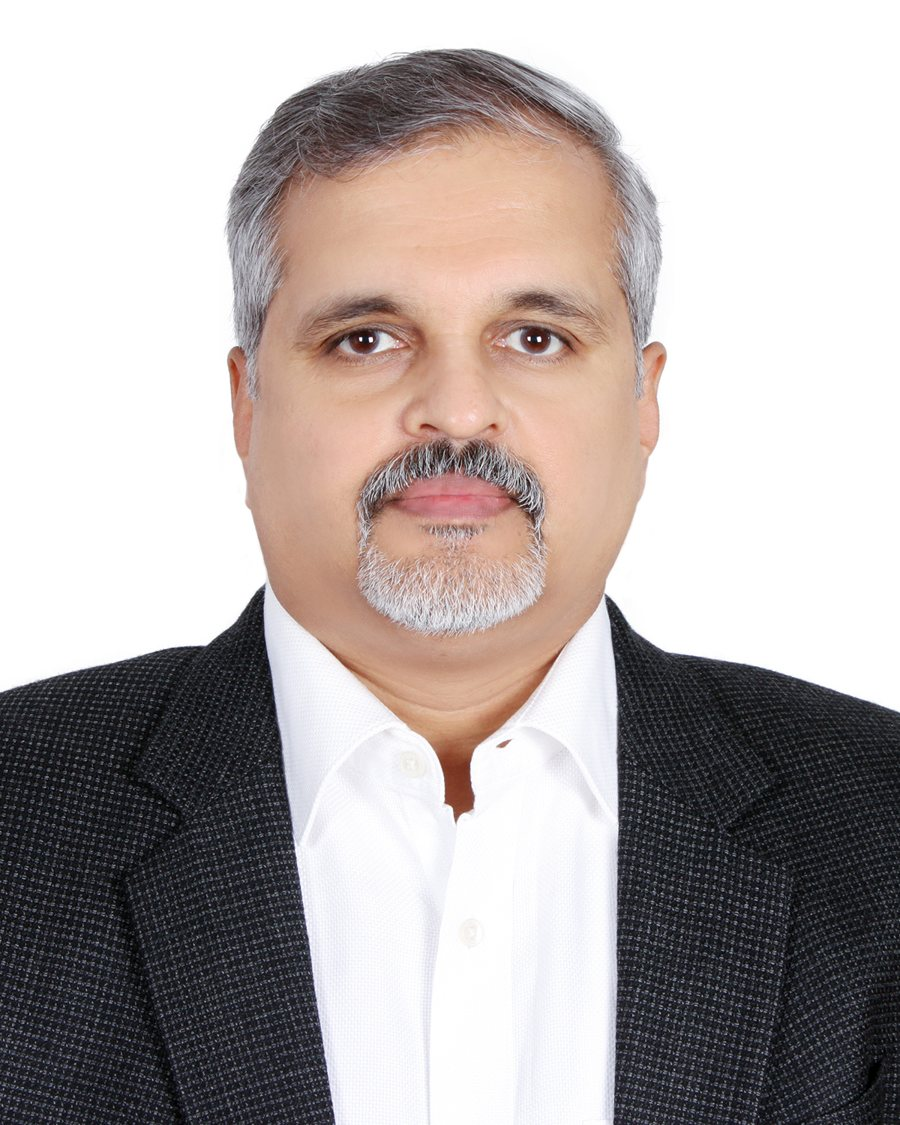
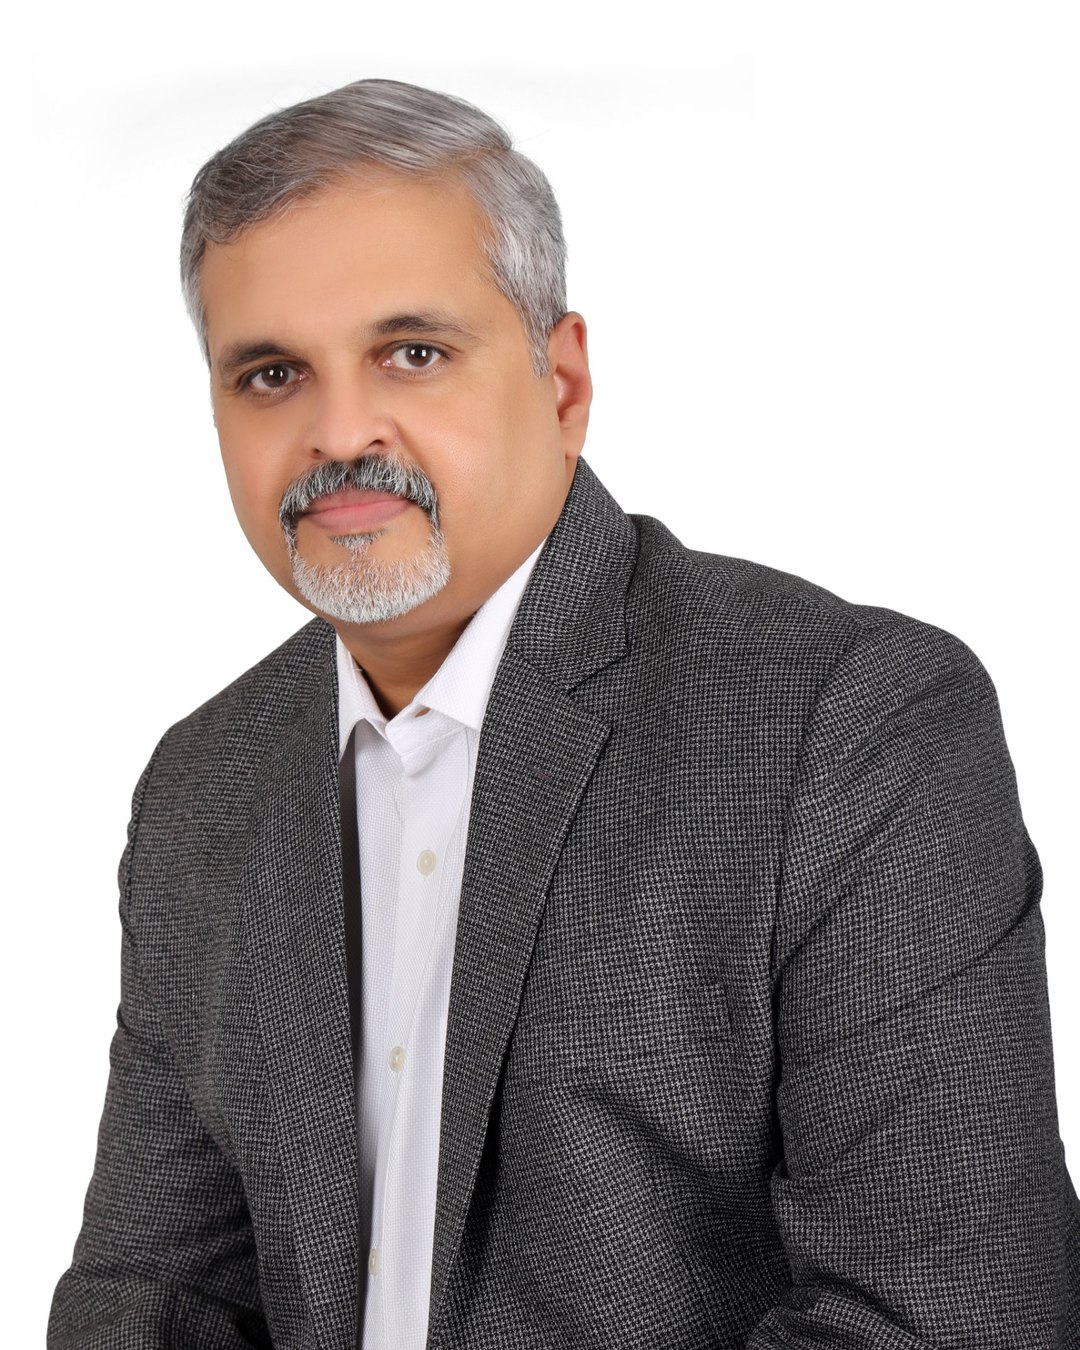
Add files via upload

diff --git a/faqs.html b/faqs.html
@@ -22,7 +22,7 @@
 <link rel="preconnect" href="https://fonts.googleapis.com">
 <link rel="preconnect" href="https://fonts.gstatic.com" crossorigin>
 <link rel="stylesheet" href="https://fonts.googleapis.com/css2?family=Cormorant+Garamond:ital,wght@0,500;0,600;0,700;1,500;1,600&family=IBM+Plex+Mono:wght@400;500&family=IBM+Plex+Sans:wght@400;500;600&display=swap">
-<link rel="stylesheet" href="assets/css/style.css?v=20261113b">
+<link rel="stylesheet" href="assets/css/style.css?v=20261120">
 <script type="application/ld+json">
 {"@context": "https://schema.org", "@type": "FAQPage", "mainEntity": [{"@type": "Question", "name": "What is a mutual fund?", "acceptedAnswer": {"@type": "Answer", "text": "A mutual fund pools money from many investors and invests it in shares, bonds or other securities according to a stated objective. A professional fund manager runs it, and each investor owns units in proportion to the amount invested. Mutual funds in India are regulated by SEBI."}}, {"@type": "Question", "name": "How much do I need to start a SIP?", "acceptedAnswer": {"@type": "Answer", "text": "Many schemes accept monthly SIPs from ₹500 or ₹1,000, and some allow smaller amounts. The minimum differs by scheme and is stated in its scheme documents. You can increase or stop a SIP later, and most fund houses also let you pause it for a while."}}, {"@type": "Question", "name": "SIP or lump sum: which is better?", "acceptedAnswer": {"@type": "Answer", "text": "Neither is better in every case. A SIP invests a fixed amount at regular intervals, which builds a habit and spreads your purchases across market ups and downs. A lump sum invests money you already have in one go. Many investors use both. The right mix depends on your goal, your time horizon and how comfortable you are with market swings, which we discuss after your risk profile."}}, {"@type": "Question", "name": "What documents do I need?", "acceptedAnswer": {"@type": "Answer", "text": "Resident Indians: PAN, Aadhaar or another address proof, a recent photograph, and bank details (a cancelled cheque or bank statement). NRIs: in addition, your passport, overseas address proof, NRE or NRO bank account details and a FATCA/CRS declaration. KYC is completed once through a KYC Registration Agency and then works across all mutual funds."}}, {"@type": "Question", "name": "Why do you start with a risk profile?", "acceptedAnswer": {"@type": "Answer", "text": "Before suggesting any scheme, we need to understand how much risk you are able and willing to take, and how much time each goal has. A short questionnaire and a conversation help us recommend only what is suitable for you, not what is popular at the moment."}}, {"@type": "Question", "name": "Can NRIs invest in Indian mutual funds?", "acceptedAnswer": {"@type": "Answer", "text": "Yes. NRIs can invest through NRE or NRO bank accounts after completing KYC and FATCA declarations. Some fund houses do not accept investments from residents of certain countries, such as the USA and Canada, or accept them only with extra paperwork, so scheme choice depends on where you live. You are also responsible for checking the rules of your country of residence."}}, {"@type": "Question", "name": "What happens to my investments when I return to India?", "acceptedAnswer": {"@type": "Answer", "text": "Your investments continue. You update your residential status with each fund house and with your bank, and we help you with the paperwork. Your Chartered Accountant can advise on the tax side of the move."}}, {"@type": "Question", "name": "Do you charge me a fee?", "acceptedAnswer": {"@type": "Answer", "text": "We don't charge you a separate fee. We are paid a commission by the Asset Management Company on investments made through us in the Regular Plan of a scheme, and it is included in the scheme's expense ratio. We tell you the commission on each scheme we suggest before you invest. See our Disclosures ."}}, {"@type": "Question", "name": "What is the difference between a Regular Plan and a Direct Plan?", "acceptedAnswer": {"@type": "Answer", "text": "Both are the same scheme with the same portfolio. A Regular Plan is bought through a distributor and its expense ratio includes the distributor's commission, so it is higher. A Direct Plan is bought without a distributor and has a lower expense ratio, but no distributor service. As a Mutual Fund Distributor, we deal only in Regular Plans."}}, {"@type": "Question", "name": "Are returns guaranteed?", "acceptedAnswer": {"@type": "Answer", "text": "No. Mutual Fund investments are subject to market risks, read all scheme related documents carefully. The value of your investment can go down as well as up, and past performance may or may not be sustained in future. Debt funds also carry interest-rate and credit risk."}}, {"@type": "Question", "name": "Can I withdraw my money at any time?", "acceptedAnswer": {"@type": "Answer", "text": "For open-ended schemes, yes, on any business day. Some schemes charge an exit load if you redeem within a set period, and ELSS schemes have a 3-year lock-in. Redemption money is usually credited to your bank account within a few working days, depending on the type of scheme."}}, {"@type": "Question", "name": "How are mutual fund gains taxed?", "acceptedAnswer": {"@type": "Answer", "text": "It depends on the type of scheme (equity-oriented or not), how long you hold it, and whether you are a resident or an NRI. For NRIs, tax is also deducted at source when you redeem. Tax rules change from time to time, so we coordinate with your Chartered Accountant rather than give tax advice ourselves."}}, {"@type": "Question", "name": "What is ELSS?", "acceptedAnswer": {"@type": "Answer", "text": "An Equity Linked Savings Scheme (ELSS) is an equity mutual fund with a 3-year lock-in. Under the old tax regime, investments in ELSS may qualify for a deduction of up to ₹1.5 lakh a year, together with other eligible investments. The new tax regime does not offer this deduction. Please confirm the current rules with your Chartered Accountant."}}, {"@type": "Question", "name": "How will I know how my investments are doing?", "acceptedAnswer": {"@type": "Answer", "text": "You receive a Consolidated Account Statement (CAS) covering all your mutual fund holdings, every month in which you transact and at least every six months otherwise. Each fund house also sends statements, and you can track your investments online through the Wealthy app. We review your portfolio with you periodically."}}, {"@type": "Question", "name": "Is my money safe with Dreemz Wealth?", "acceptedAnswer": {"@type": "Answer", "text": "Your money never comes to us. Payments go from your bank account to the mutual fund or the transaction platform's payment system, and your units are held in your own name. Each mutual fund's assets are held by an independent custodian and overseen by trustees under SEBI rules. This protects you against misuse of your money, but not against market falls."}}, {"@type": "Question", "name": "How often will we review my portfolio?", "acceptedAnswer": {"@type": "Answer", "text": "At least once a year, and whenever something important changes in your life, such as a new goal, a move or a change in income. Reviews check that each goal is still on track and whether any rebalancing is suitable."}}]}
 </script>
@@ -231,7 +231,7 @@
   </div>
 </footer>
 <a class="wa-float" href="https://wa.me/919446206915" target="_blank" rel="noopener" aria-label="Chat with Wilfred on WhatsApp"><svg viewBox="0 0 24 24" width="22" height="22" fill="none" stroke="currentColor" stroke-width="1.8" stroke-linecap="round" stroke-linejoin="round" aria-hidden="true"><path d="M21 12a8.5 8.5 0 0 1-12.6 7.4L3 21l1.6-5.2A8.5 8.5 0 1 1 21 12z"/><path d="M8.5 10.5h7M8.5 13.5h4.5"/></svg><span>WhatsApp</span></a>
-<script src="assets/js/config.js?v=20261113b"></script>
-<script src="assets/js/main.js?v=20261113b"></script>
+<script src="assets/js/config.js?v=20261120"></script>
+<script src="assets/js/main.js?v=20261120"></script>
 </body>
 </html>

diff --git a/index.html b/index.html
@@ -22,7 +22,7 @@
 <link rel="preconnect" href="https://fonts.googleapis.com">
 <link rel="preconnect" href="https://fonts.gstatic.com" crossorigin>
 <link rel="stylesheet" href="https://fonts.googleapis.com/css2?family=Cormorant+Garamond:ital,wght@0,500;0,600;0,700;1,500;1,600&family=IBM+Plex+Mono:wght@400;500&family=IBM+Plex+Sans:wght@400;500;600&display=swap">
-<link rel="stylesheet" href="assets/css/style.css?v=20261113b">
+<link rel="stylesheet" href="assets/css/style.css?v=20261120">
 <script type="application/ld+json">
 {"@context":"https://schema.org","@type":"FinancialService","name":"Dreemz Wealth","url":"https://dreemzwealth.com/","email":"wilfred@dreemzwealth.com","founder":{"@type":"Person","name":"Wilfred Thomson","sameAs":"https://www.linkedin.com/in/wilfred-thomson/"},"telephone":["+91-9446206915","+971-50-9843813"],"areaServed":["IN","AE"],"sameAs":["https://www.instagram.com/dreemzwealth/"],"address":[{"@type":"PostalAddress","addressLocality":"Kochi","addressRegion":"Kerala","addressCountry":"IN"},{"@type":"PostalAddress","addressLocality":"Kottayam","addressRegion":"Kerala","addressCountry":"IN"},{"@type":"PostalAddress","addressLocality":"Dubai","addressCountry":"AE"}]}
 </script>
@@ -161,9 +161,9 @@
 </section>
 
 <section class="section section--paper">
-  <div class="wrap about-split">
+  <div class="wrap about-split about-split--rev">
     <figure class="portrait" style="margin:0">
-      <img src="assets/img/wilfred-thomson.jpg" width="900" height="1125" alt="Wilfred Thomson, founder of Dreemz Wealth" loading="lazy">
+      <img src="assets/img/wilfred-thomson.jpg?v=2" width="1080" height="1350" alt="Wilfred Thomson, founder of Dreemz Wealth" loading="lazy">
     </figure>
     <div class="stack-lg">
       <div class="stack">
@@ -280,7 +280,7 @@
   </div>
 </footer>
 <a class="wa-float" href="https://wa.me/919446206915" target="_blank" rel="noopener" aria-label="Chat with Wilfred on WhatsApp"><svg viewBox="0 0 24 24" width="22" height="22" fill="none" stroke="currentColor" stroke-width="1.8" stroke-linecap="round" stroke-linejoin="round" aria-hidden="true"><path d="M21 12a8.5 8.5 0 0 1-12.6 7.4L3 21l1.6-5.2A8.5 8.5 0 1 1 21 12z"/><path d="M8.5 10.5h7M8.5 13.5h4.5"/></svg><span>WhatsApp</span></a>
-<script src="assets/js/config.js?v=20261113b"></script>
-<script src="assets/js/main.js?v=20261113b"></script>
+<script src="assets/js/config.js?v=20261120"></script>
+<script src="assets/js/main.js?v=20261120"></script>
 </body>
 </html>

diff --git a/assets/css/style.css b/assets/css/style.css
@@ -18,10 +18,10 @@
   --gold-tint: #f6ebd2;
   --gold-grad: linear-gradient(135deg, #f7dc93 0%, #d8a948 45%, #b8862d 70%, #f0cd78 100%);
   --gold-line: linear-gradient(90deg, #a87824, #f3d27f 30%, #c99a3d 60%, #f3d27f 85%, #a87824);
-  --dream: #2550c4;        /* tagline colours from the brand card */
-  --plan: #1b8a50;
-  --invest: #b8861f;
-  --grow: #c0303c;
+  --dream: #0b2a5b;        /* "Gold journey" tagline colours on light backgrounds: navy, then gold getting richer */
+  --plan: #b8861f;
+  --invest: #a57718;
+  --grow: #8a5c0e;
   --ok: #1b8a50;
   --err: #b42318;
 
@@ -192,7 +192,7 @@ p { margin: 0; }
 .tagline { display: flex; flex-wrap: wrap; align-items: baseline; gap: 6px 14px; font-family: var(--f-display); font-weight: 700; font-size: clamp(1.35rem, 1rem + 1.3vw, 1.9rem); letter-spacing: 0.06em; }
 .tagline span:nth-child(odd) { text-transform: uppercase; }
 .tagline .sep { color: var(--gold-bright); font-weight: 400; }
-.t-dream { color: #6f93f0; } .t-plan { color: #4cc488; } .t-invest { color: var(--gold-bright); } .t-grow { color: #ec6a74; }
+.t-dream { color: #fbf6ee; } .t-plan { color: #f7e3a8; } .t-invest { color: #f3d27f; } .t-grow { color: #e0a93a; } /* "Gold journey" on navy: ivory, then gold getting richer */
 .section:not(.section--ink) .t-dream { color: var(--dream); }
 .section:not(.section--ink) .t-plan { color: var(--plan); }
 .section:not(.section--ink) .t-invest { color: var(--invest); }
@@ -597,3 +597,8 @@ fieldset.choice input { width: 18px; height: 18px; accent-color: var(--ink); }
 .pbanner { background: var(--ink-deep, #061c3e); line-height: 0; border-top: 3px solid transparent; border-image: var(--gold-line) 1; }
 .pbanner picture, .pbanner img { display: block; width: 100%; max-width: 1920px; height: auto; margin-inline: auto; }
 .pbanner + .cta-band { border-top: 1px solid rgba(243,210,127,.25); }
+/* Portrait on the right on wider screens (photo faces the text); stays above the text on phones */
+@media (min-width: 821px) {
+  .about-split--rev { grid-template-columns: minmax(0, 1.2fr) minmax(0, 0.8fr); }
+  .about-split--rev > .portrait { order: 2; justify-self: end; }
+}

diff --git a/about.html b/about.html
@@ -22,7 +22,7 @@
 <link rel="preconnect" href="https://fonts.googleapis.com">
 <link rel="preconnect" href="https://fonts.gstatic.com" crossorigin>
 <link rel="stylesheet" href="https://fonts.googleapis.com/css2?family=Cormorant+Garamond:ital,wght@0,500;0,600;0,700;1,500;1,600&family=IBM+Plex+Mono:wght@400;500&family=IBM+Plex+Sans:wght@400;500;600&display=swap">
-<link rel="stylesheet" href="assets/css/style.css?v=20261113b">
+<link rel="stylesheet" href="assets/css/style.css?v=20261120">
 </head>
 <body>
 <a class="skip" href="#main">Skip to content</a>
@@ -62,9 +62,9 @@
 </section>
 
 <section class="section">
-  <div class="wrap about-split">
+  <div class="wrap about-split about-split--rev">
     <figure class="portrait" style="margin:0">
-      <img src="assets/img/wilfred-thomson.jpg" width="900" height="1125" alt="Wilfred Thomson">
+      <img src="assets/img/wilfred-thomson.jpg?v=2" width="1080" height="1350" alt="Wilfred Thomson">
       <figcaption>Wilfred Thomson</figcaption>
     </figure>
     <div class="stack-lg" style="min-width:0">
@@ -230,7 +230,7 @@
   </div>
 </footer>
 <a class="wa-float" href="https://wa.me/919446206915" target="_blank" rel="noopener" aria-label="Chat with Wilfred on WhatsApp"><svg viewBox="0 0 24 24" width="22" height="22" fill="none" stroke="currentColor" stroke-width="1.8" stroke-linecap="round" stroke-linejoin="round" aria-hidden="true"><path d="M21 12a8.5 8.5 0 0 1-12.6 7.4L3 21l1.6-5.2A8.5 8.5 0 1 1 21 12z"/><path d="M8.5 10.5h7M8.5 13.5h4.5"/></svg><span>WhatsApp</span></a>
-<script src="assets/js/config.js?v=20261113b"></script>
-<script src="assets/js/main.js?v=20261113b"></script>
+<script src="assets/js/config.js?v=20261120"></script>
+<script src="assets/js/main.js?v=20261120"></script>
 </body>
 </html>

diff --git a/calculators.html b/calculators.html
@@ -22,7 +22,7 @@
 <link rel="preconnect" href="https://fonts.googleapis.com">
 <link rel="preconnect" href="https://fonts.gstatic.com" crossorigin>
 <link rel="stylesheet" href="https://fonts.googleapis.com/css2?family=Cormorant+Garamond:ital,wght@0,500;0,600;0,700;1,500;1,600&family=IBM+Plex+Mono:wght@400;500&family=IBM+Plex+Sans:wght@400;500;600&display=swap">
-<link rel="stylesheet" href="assets/css/style.css?v=20261113b">
+<link rel="stylesheet" href="assets/css/style.css?v=20261120">
 </head>
 <body>
 <a class="skip" href="#main">Skip to content</a>
@@ -226,7 +226,7 @@
   </div>
 </footer>
 <a class="wa-float" href="https://wa.me/919446206915" target="_blank" rel="noopener" aria-label="Chat with Wilfred on WhatsApp"><svg viewBox="0 0 24 24" width="22" height="22" fill="none" stroke="currentColor" stroke-width="1.8" stroke-linecap="round" stroke-linejoin="round" aria-hidden="true"><path d="M21 12a8.5 8.5 0 0 1-12.6 7.4L3 21l1.6-5.2A8.5 8.5 0 1 1 21 12z"/><path d="M8.5 10.5h7M8.5 13.5h4.5"/></svg><span>WhatsApp</span></a>
-<script src="assets/js/config.js?v=20261113b"></script>
-<script src="assets/js/main.js?v=20261113b"></script>
+<script src="assets/js/config.js?v=20261120"></script>
+<script src="assets/js/main.js?v=20261120"></script>
 </body>
 </html>

diff --git a/contact.html b/contact.html
@@ -22,7 +22,7 @@
 <link rel="preconnect" href="https://fonts.googleapis.com">
 <link rel="preconnect" href="https://fonts.gstatic.com" crossorigin>
 <link rel="stylesheet" href="https://fonts.googleapis.com/css2?family=Cormorant+Garamond:ital,wght@0,500;0,600;0,700;1,500;1,600&family=IBM+Plex+Mono:wght@400;500&family=IBM+Plex+Sans:wght@400;500;600&display=swap">
-<link rel="stylesheet" href="assets/css/style.css?v=20261113b">
+<link rel="stylesheet" href="assets/css/style.css?v=20261120">
 </head>
 <body>
 <a class="skip" href="#main">Skip to content</a>
@@ -249,7 +249,7 @@
   </div>
 </footer>
 <a class="wa-float" href="https://wa.me/919446206915" target="_blank" rel="noopener" aria-label="Chat with Wilfred on WhatsApp"><svg viewBox="0 0 24 24" width="22" height="22" fill="none" stroke="currentColor" stroke-width="1.8" stroke-linecap="round" stroke-linejoin="round" aria-hidden="true"><path d="M21 12a8.5 8.5 0 0 1-12.6 7.4L3 21l1.6-5.2A8.5 8.5 0 1 1 21 12z"/><path d="M8.5 10.5h7M8.5 13.5h4.5"/></svg><span>WhatsApp</span></a>
-<script src="assets/js/config.js?v=20261113b"></script>
-<script src="assets/js/main.js?v=20261113b"></script>
+<script src="assets/js/config.js?v=20261120"></script>
+<script src="assets/js/main.js?v=20261120"></script>
 </body>
 </html>

diff --git a/credentials.html b/credentials.html
@@ -22,7 +22,7 @@
 <link rel="preconnect" href="https://fonts.googleapis.com">
 <link rel="preconnect" href="https://fonts.gstatic.com" crossorigin>
 <link rel="stylesheet" href="https://fonts.googleapis.com/css2?family=Cormorant+Garamond:ital,wght@0,500;0,600;0,700;1,500;1,600&family=IBM+Plex+Mono:wght@400;500&family=IBM+Plex+Sans:wght@400;500;600&display=swap">
-<link rel="stylesheet" href="assets/css/style.css?v=20261113b">
+<link rel="stylesheet" href="assets/css/style.css?v=20261120">
 </head>
 <body>
 <a class="skip" href="#main">Skip to content</a>
@@ -239,7 +239,7 @@
   </div>
 </footer>
 <a class="wa-float" href="https://wa.me/919446206915" target="_blank" rel="noopener" aria-label="Chat with Wilfred on WhatsApp"><svg viewBox="0 0 24 24" width="22" height="22" fill="none" stroke="currentColor" stroke-width="1.8" stroke-linecap="round" stroke-linejoin="round" aria-hidden="true"><path d="M21 12a8.5 8.5 0 0 1-12.6 7.4L3 21l1.6-5.2A8.5 8.5 0 1 1 21 12z"/><path d="M8.5 10.5h7M8.5 13.5h4.5"/></svg><span>WhatsApp</span></a>
-<script src="assets/js/config.js?v=20261113b"></script>
-<script src="assets/js/main.js?v=20261113b"></script>
+<script src="assets/js/config.js?v=20261120"></script>
+<script src="assets/js/main.js?v=20261120"></script>
 </body>
 </html>

diff --git a/disclosures.html b/disclosures.html
@@ -22,7 +22,7 @@
 <link rel="preconnect" href="https://fonts.googleapis.com">
 <link rel="preconnect" href="https://fonts.gstatic.com" crossorigin>
 <link rel="stylesheet" href="https://fonts.googleapis.com/css2?family=Cormorant+Garamond:ital,wght@0,500;0,600;0,700;1,500;1,600&family=IBM+Plex+Mono:wght@400;500&family=IBM+Plex+Sans:wght@400;500;600&display=swap">
-<link rel="stylesheet" href="assets/css/style.css?v=20261113b">
+<link rel="stylesheet" href="assets/css/style.css?v=20261120">
 </head>
 <body>
 <a class="skip" href="#main">Skip to content</a>
@@ -244,7 +244,7 @@
   </div>
 </footer>
 <a class="wa-float" href="https://wa.me/919446206915" target="_blank" rel="noopener" aria-label="Chat with Wilfred on WhatsApp"><svg viewBox="0 0 24 24" width="22" height="22" fill="none" stroke="currentColor" stroke-width="1.8" stroke-linecap="round" stroke-linejoin="round" aria-hidden="true"><path d="M21 12a8.5 8.5 0 0 1-12.6 7.4L3 21l1.6-5.2A8.5 8.5 0 1 1 21 12z"/><path d="M8.5 10.5h7M8.5 13.5h4.5"/></svg><span>WhatsApp</span></a>
-<script src="assets/js/config.js?v=20261113b"></script>
-<script src="assets/js/main.js?v=20261113b"></script>
+<script src="assets/js/config.js?v=20261120"></script>
+<script src="assets/js/main.js?v=20261120"></script>
 </body>
 </html>

diff --git a/how-we-work.html b/how-we-work.html
@@ -22,7 +22,7 @@
 <link rel="preconnect" href="https://fonts.googleapis.com">
 <link rel="preconnect" href="https://fonts.gstatic.com" crossorigin>
 <link rel="stylesheet" href="https://fonts.googleapis.com/css2?family=Cormorant+Garamond:ital,wght@0,500;0,600;0,700;1,500;1,600&family=IBM+Plex+Mono:wght@400;500&family=IBM+Plex+Sans:wght@400;500;600&display=swap">
-<link rel="stylesheet" href="assets/css/style.css?v=20261113b">
+<link rel="stylesheet" href="assets/css/style.css?v=20261120">
 </head>
 <body>
 <a class="skip" href="#main">Skip to content</a>
@@ -179,7 +179,7 @@
   </div>
 </footer>
 <a class="wa-float" href="https://wa.me/919446206915" target="_blank" rel="noopener" aria-label="Chat with Wilfred on WhatsApp"><svg viewBox="0 0 24 24" width="22" height="22" fill="none" stroke="currentColor" stroke-width="1.8" stroke-linecap="round" stroke-linejoin="round" aria-hidden="true"><path d="M21 12a8.5 8.5 0 0 1-12.6 7.4L3 21l1.6-5.2A8.5 8.5 0 1 1 21 12z"/><path d="M8.5 10.5h7M8.5 13.5h4.5"/></svg><span>WhatsApp</span></a>
-<script src="assets/js/config.js?v=20261113b"></script>
-<script src="assets/js/main.js?v=20261113b"></script>
+<script src="assets/js/config.js?v=20261120"></script>
+<script src="assets/js/main.js?v=20261120"></script>
 </body>
 </html>

diff --git a/services.html b/services.html
@@ -22,7 +22,7 @@
 <link rel="preconnect" href="https://fonts.googleapis.com">
 <link rel="preconnect" href="https://fonts.gstatic.com" crossorigin>
 <link rel="stylesheet" href="https://fonts.googleapis.com/css2?family=Cormorant+Garamond:ital,wght@0,500;0,600;0,700;1,500;1,600&family=IBM+Plex+Mono:wght@400;500&family=IBM+Plex+Sans:wght@400;500;600&display=swap">
-<link rel="stylesheet" href="assets/css/style.css?v=20261113b">
+<link rel="stylesheet" href="assets/css/style.css?v=20261120">
 </head>
 <body>
 <a class="skip" href="#main">Skip to content</a>
@@ -193,7 +193,7 @@
   </div>
 </footer>
 <a class="wa-float" href="https://wa.me/919446206915" target="_blank" rel="noopener" aria-label="Chat with Wilfred on WhatsApp"><svg viewBox="0 0 24 24" width="22" height="22" fill="none" stroke="currentColor" stroke-width="1.8" stroke-linecap="round" stroke-linejoin="round" aria-hidden="true"><path d="M21 12a8.5 8.5 0 0 1-12.6 7.4L3 21l1.6-5.2A8.5 8.5 0 1 1 21 12z"/><path d="M8.5 10.5h7M8.5 13.5h4.5"/></svg><span>WhatsApp</span></a>
-<script src="assets/js/config.js?v=20261113b"></script>
-<script src="assets/js/main.js?v=20261113b"></script>
+<script src="assets/js/config.js?v=20261120"></script>
+<script src="assets/js/main.js?v=20261120"></script>
 </body>
 </html>
